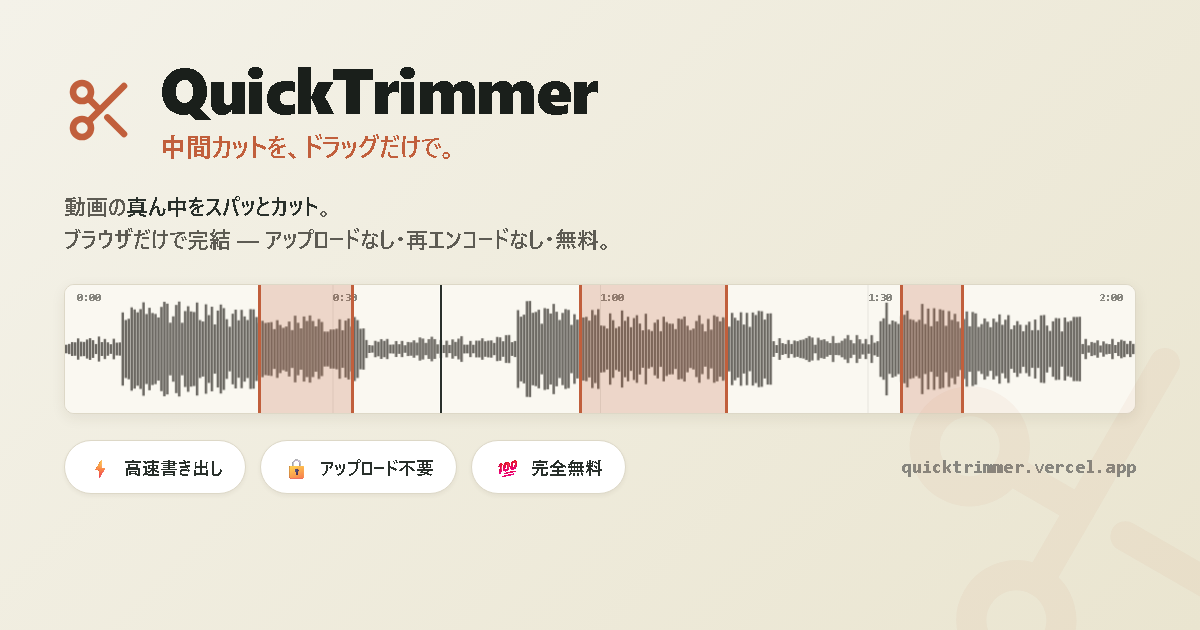
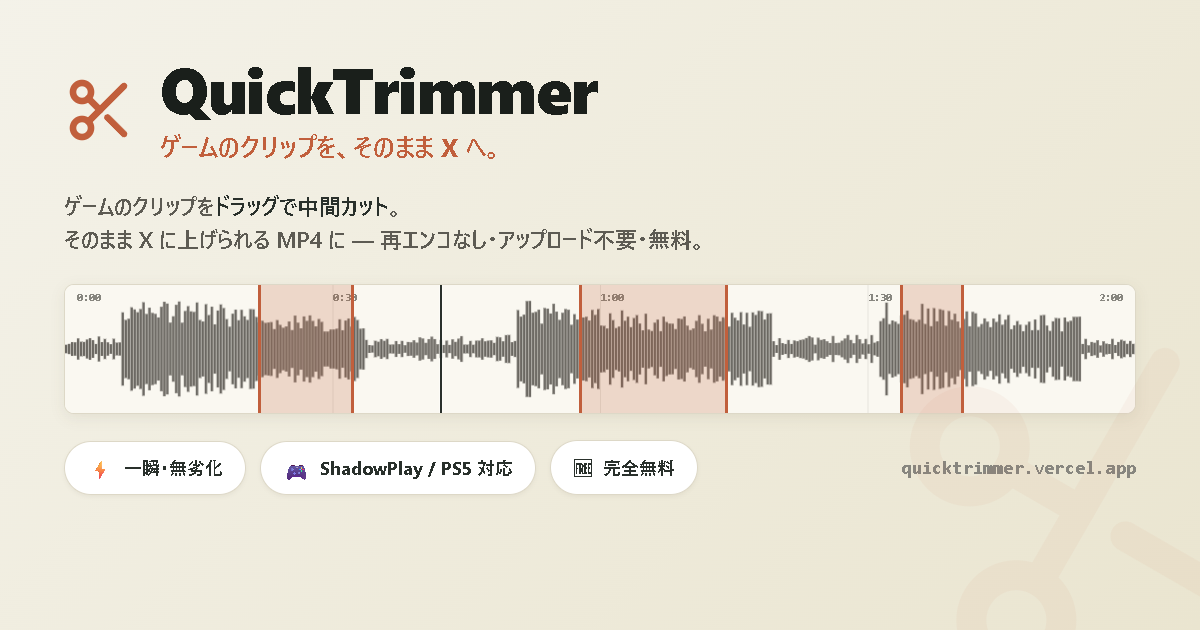
chore: refresh OG image to the game-clip→X persona
Regenerate public/og-image.png (1200x630) from the updated og-snapshot.html so
link previews match the new positioning: tagline "ゲームのクリップを、そのまま X へ。",
a game-clip→X description, and ShadowPlay/PS5 + lossless/instant feature pills.

diff --git a/tools/og-snapshot.html b/tools/og-snapshot.html
@@ -168,13 +168,13 @@
       </svg>
       <div class="brand">
         <h1>QuickTrimmer</h1>
-        <div class="tagline">中間カットを、ドラッグだけで。</div>
+        <div class="tagline">ゲームのクリップを、そのまま X へ。</div>
       </div>
     </div>
 
     <p class="description">
-      動画の<strong>真ん中をスパッとカット</strong>。<br>
-      ブラウザだけで完結 — アップロードなし・再エンコードなし・無料。
+      ゲームのクリップを<strong>ドラッグで中間カット</strong>。<br>
+      そのまま X に上げられる MP4 に — 再エンコなし・アップロード不要・無料。
     </p>
 
     <div class="timeline-mock">
@@ -191,9 +191,9 @@
     </div>
 
     <div class="features">
-      <div class="feature"><span class="ico">⚡</span> 高速書き出し</div>
-      <div class="feature"><span class="ico">🔒</span> アップロード不要</div>
-      <div class="feature"><span class="ico">💯</span> 完全無料</div>
+      <div class="feature"><span class="ico">⚡</span> 一瞬・無劣化</div>
+      <div class="feature"><span class="ico">🎮</span> ShadowPlay / PS5 対応</div>
+      <div class="feature"><span class="ico">🆓</span> 完全無料</div>
       <div class="url">quicktrimmer.vercel.app</div>
     </div>
 
